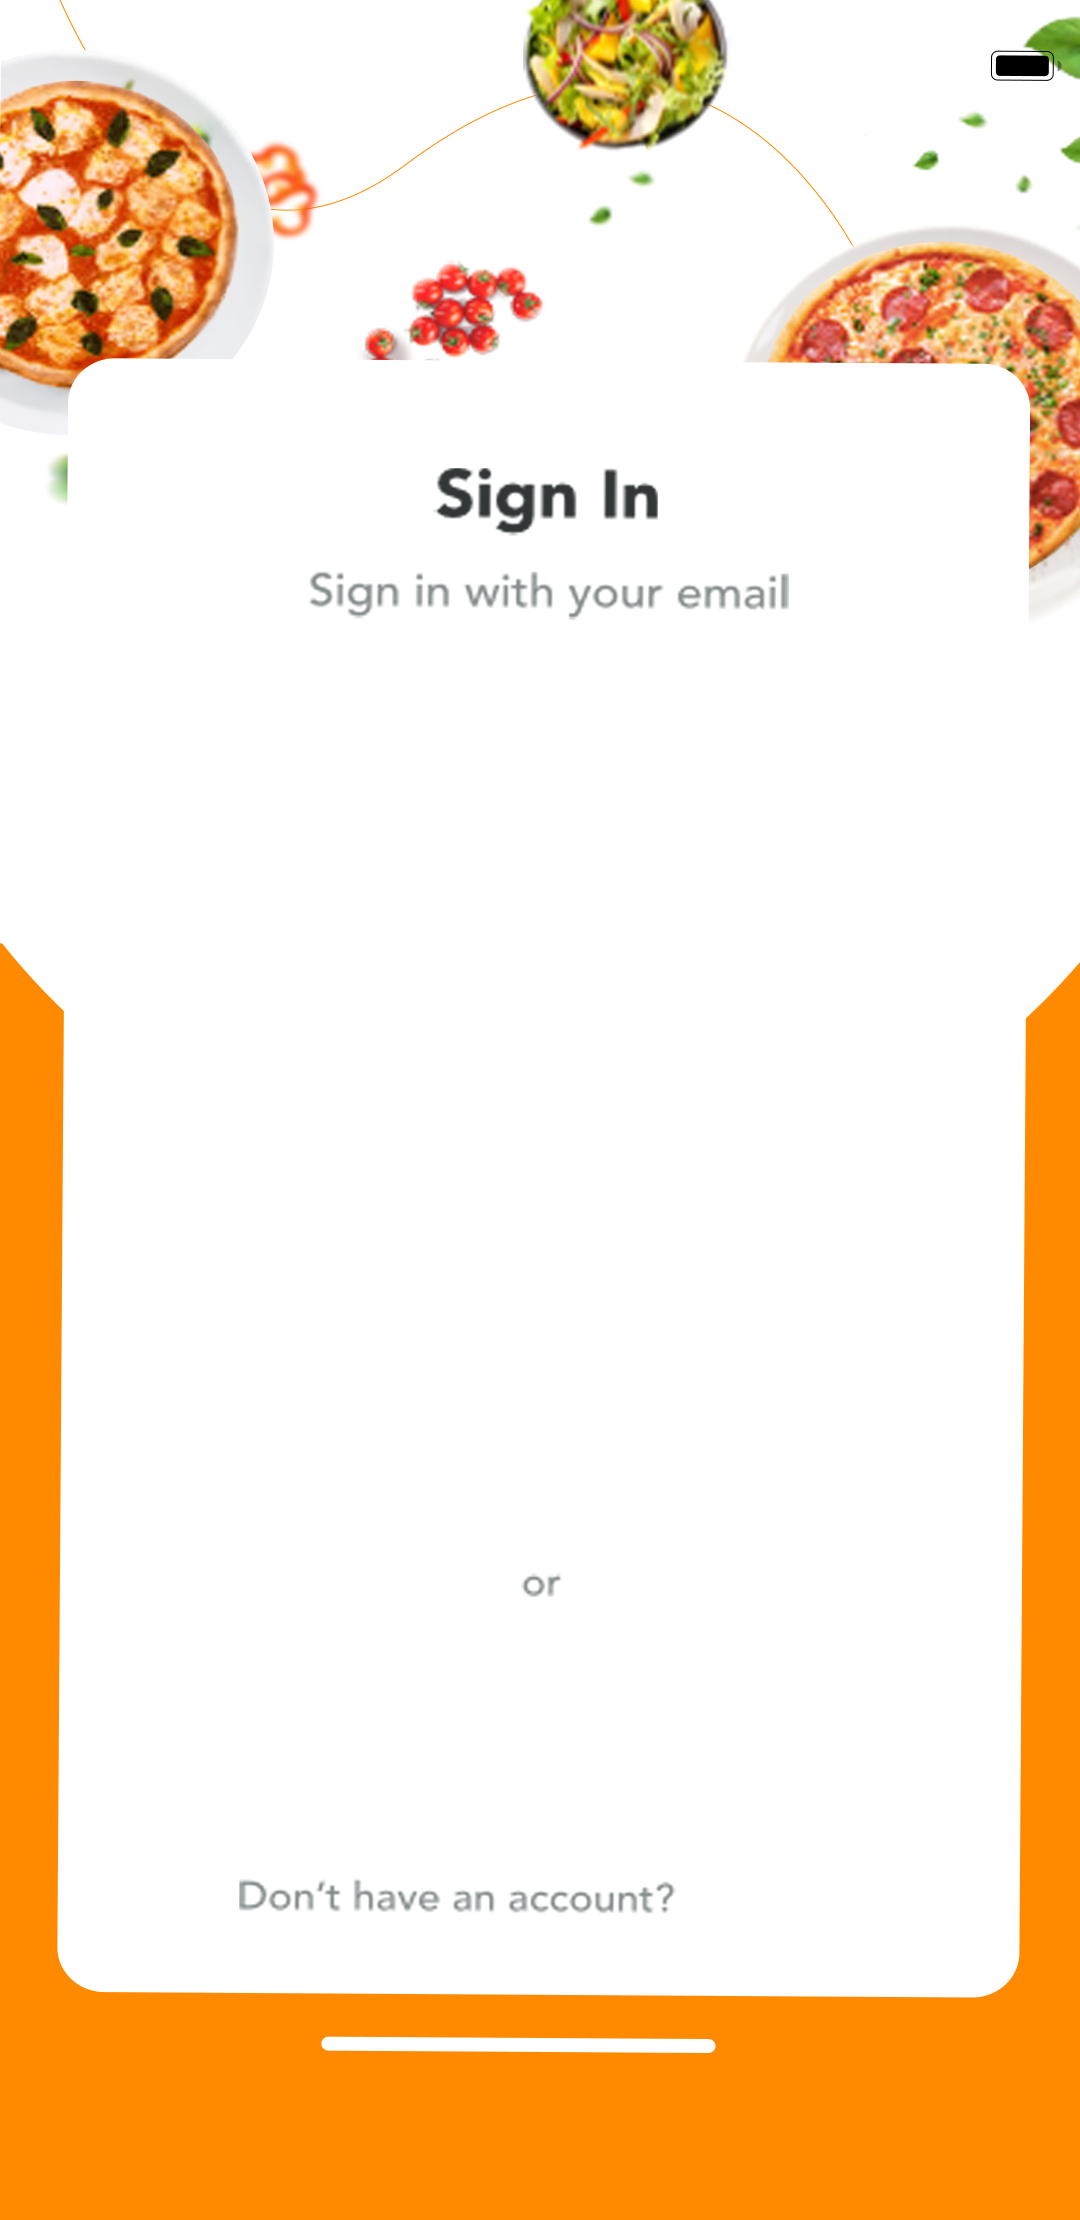
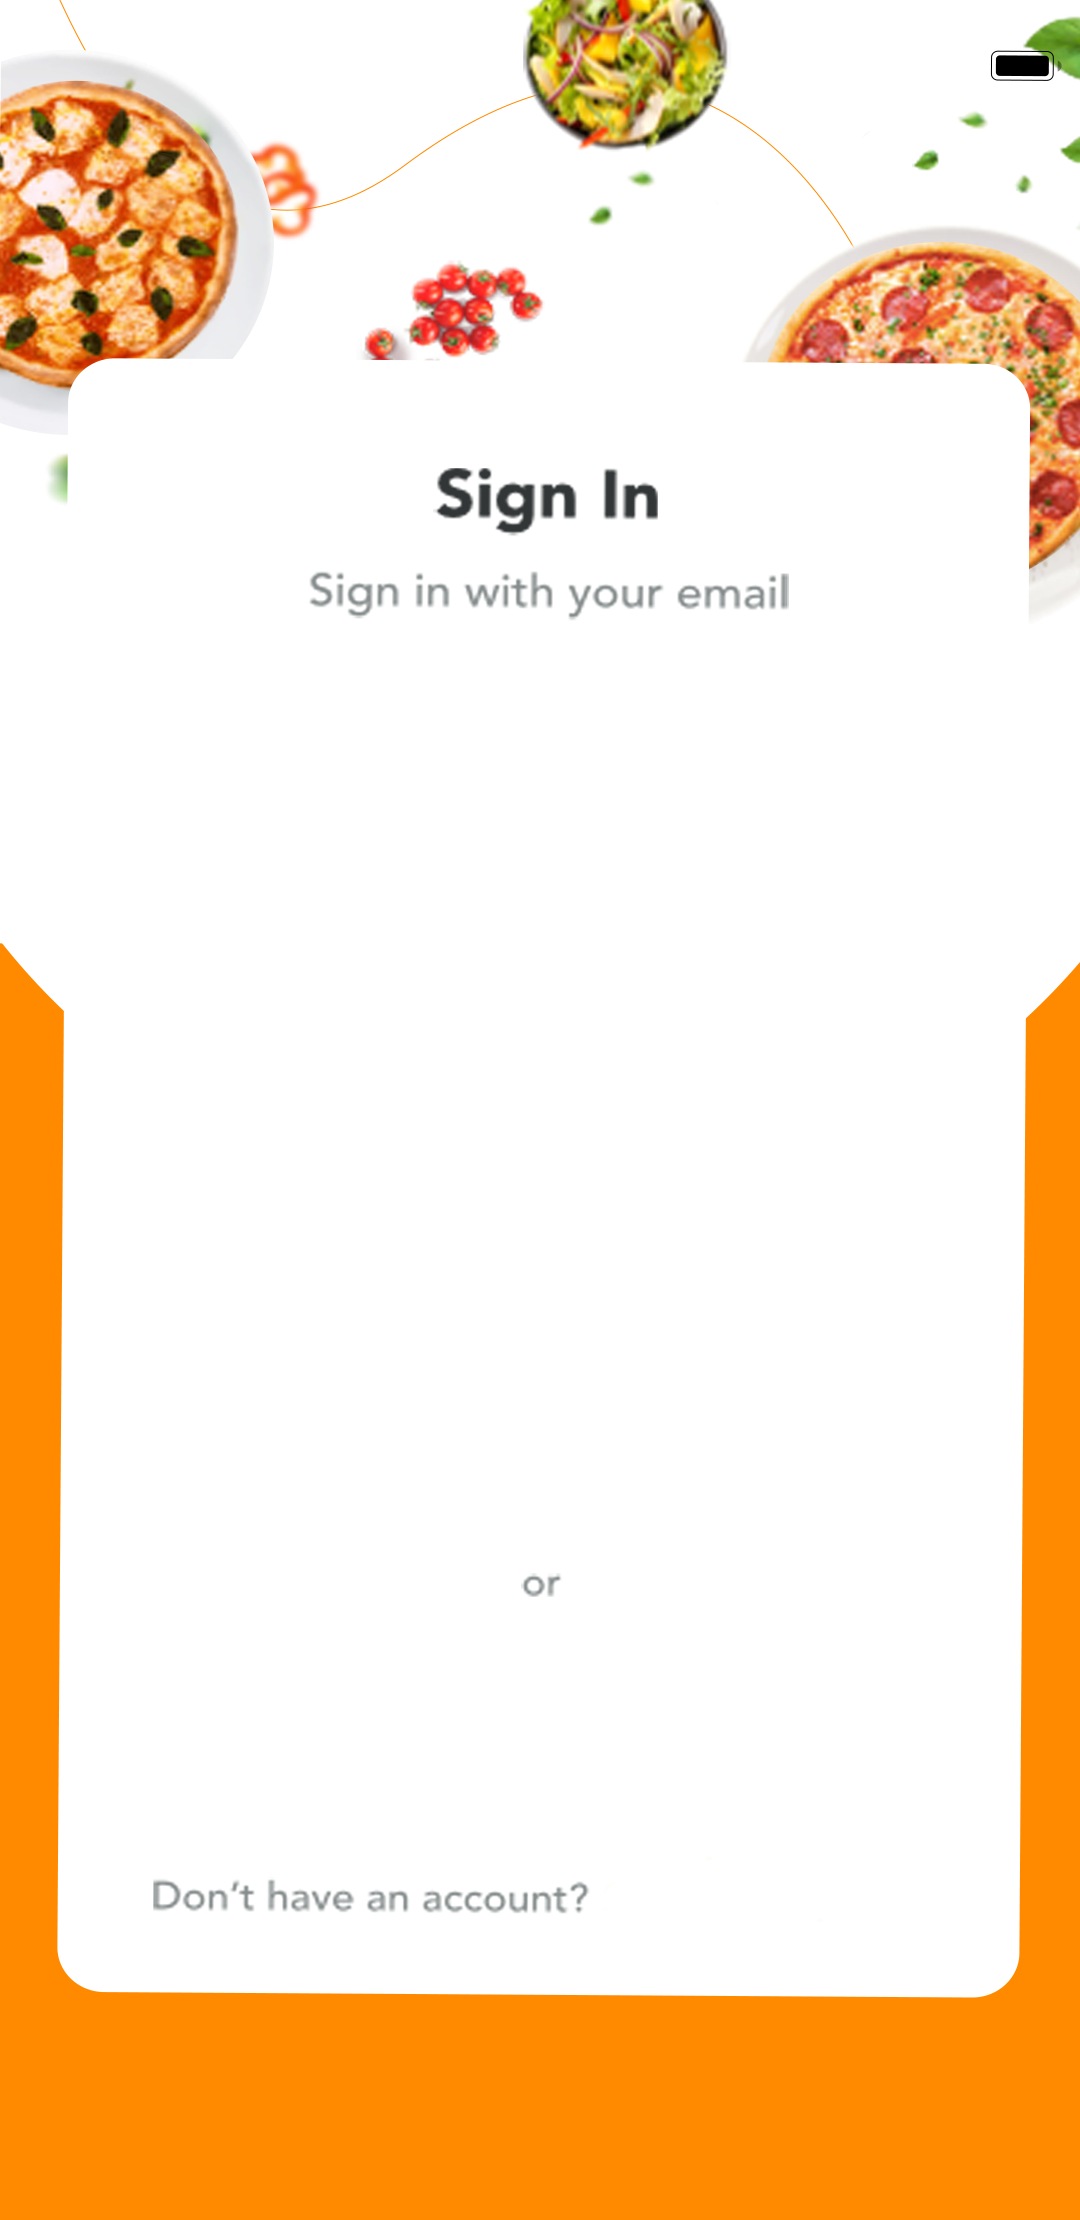
Some Edit in Ui

Changed region(s): [[0.1222, 0.8392, 0.6111, 0.8703], [0.3056, 0.9014, 0.6722, 0.9324]]

diff --git a/Food_proj/Navigations/Index.js b/Food_proj/Navigations/Index.js
@@ -9,7 +9,7 @@ import GetStart2 from '../components/GetStart2';
 import GetStart3 from '../components/GetStart3';
 import signup from '../components/signup'
 import ForgetPassword from '../components/ForgetPassword';
-import profaile from '../components/profaile';
+import Profaile from '../components/Profaile';
 
 const Stack = createNativeStackNavigator();
 
@@ -26,7 +26,7 @@ const Index = () => {
       <Stack.Screen name="Login" component={Login} /> 
       <Stack.Screen name="ForgetPassword" component={ ForgetPassword } />
       <Stack.Screen name="signup" component={signup} />
-      <Stack.Screen name="profaile" component={profaile} />
+      <Stack.Screen name="Profaile" component={Profaile} />
 
 
     </Stack.Navigator>

diff --git a/Food_proj/components/Login.js b/Food_proj/components/Login.js
@@ -14,7 +14,7 @@ export default function Login({ navigation }) {
                 const user = userCredential.user;
                 // navigation.navigate('Home');
                 alert('Login done');
-                navigation.navigate('profaile');
+                navigation.navigate('Profaile');
             })
             .catch((error) => {
                 const errorCode = error.code;
@@ -194,12 +194,13 @@ const styles = StyleSheet.create({
         backgroundColor: "red",
     },
     CreateBtn: {
-        marginTop: "1.5%",
+        marginLeft: "50%",
+        marginTop: "10%",
+        
     },
     loginText: {
         color: 'white',
-        fontWeight: 'bold',
-
+        marginHorizontal:"10%",
     },
 });
 

diff --git a/Food_proj/App.js b/Food_proj/App.js
@@ -1,12 +1,6 @@
 import { StatusBar } from 'expo-status-bar';
 import { StyleSheet, Text, View } from 'react-native';
 import React from 'react';
-import Login from './components/Login';
-//import Signup from '../components/Signup';
-import GetStart from './components/GetStart';
-import GetStart2 from './components/GetStart2';
-import GetStart3 from './components/GetStart3';
-import ForgetPassword from "./components/ForgetPassword";
 import Index from './Navigations/Index' ;
 
 

diff --git a/Food_proj/components/profaile.js b/Food_proj/components/profaile.js
@@ -4,7 +4,7 @@ import { createUserWithEmailAndPassword } from "firebase/auth";
 import { signOut } from "firebase/auth";
 import { auth, provider } from "../firebase/firebase";
 
-export default function profaile({ navigation }) {
+export default function Profaile({ navigation }) {
     const [email, setEmail] = useState('');
     const [password, setPassword] = useState('');
     const image = require("../assets/Myprofile without Buttons.png");
